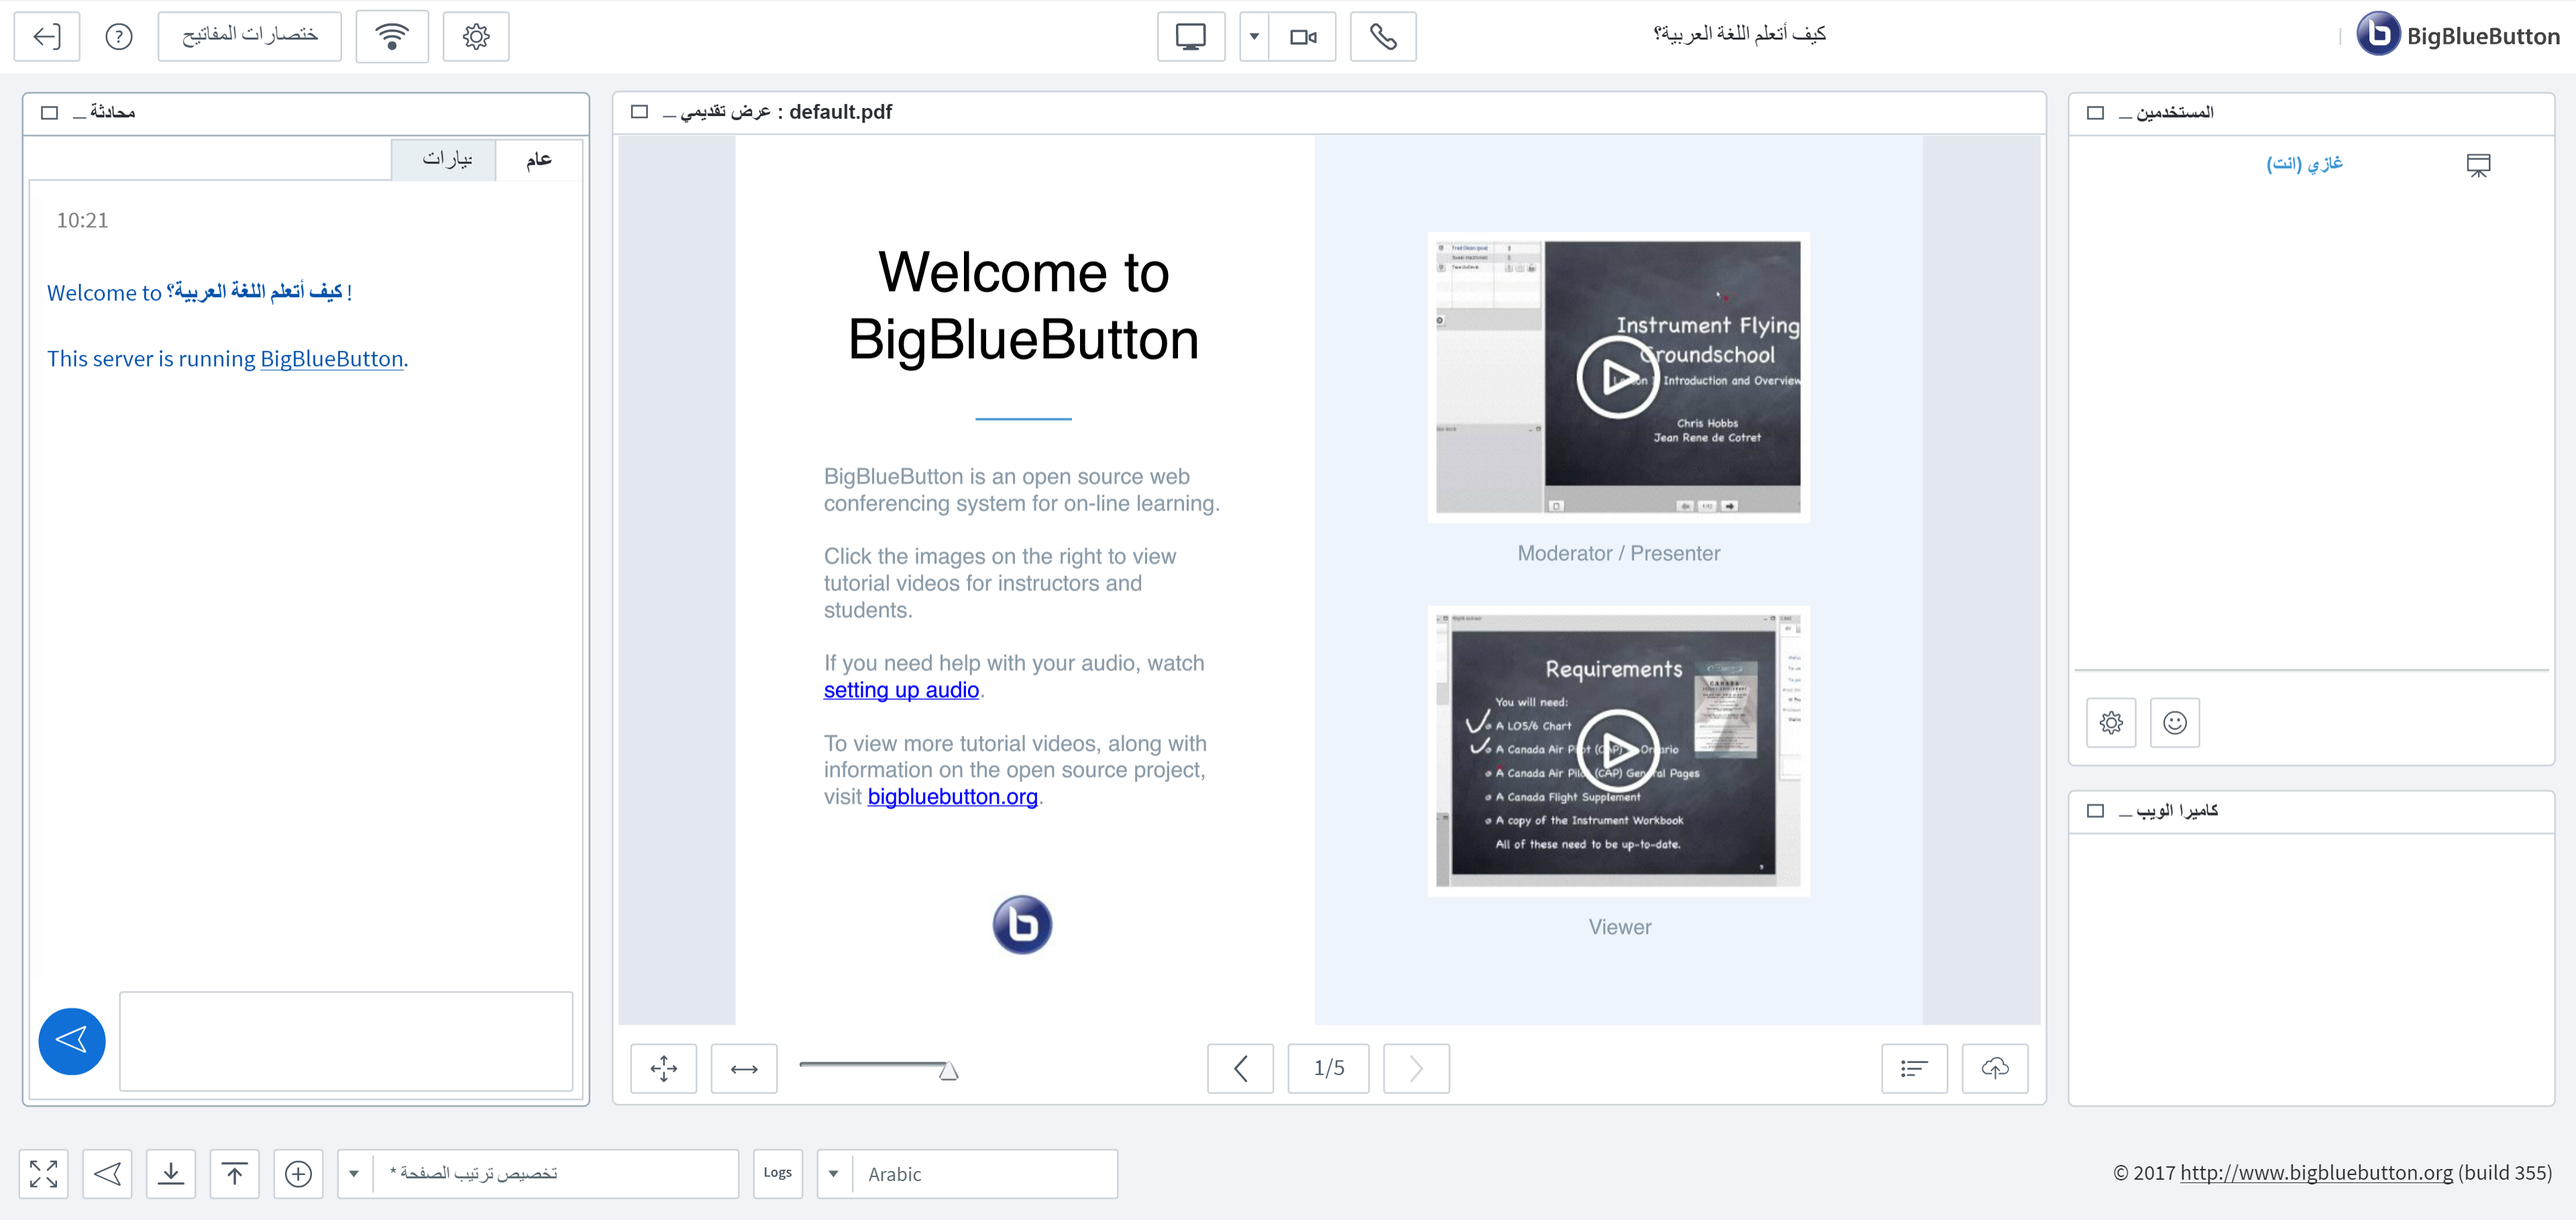
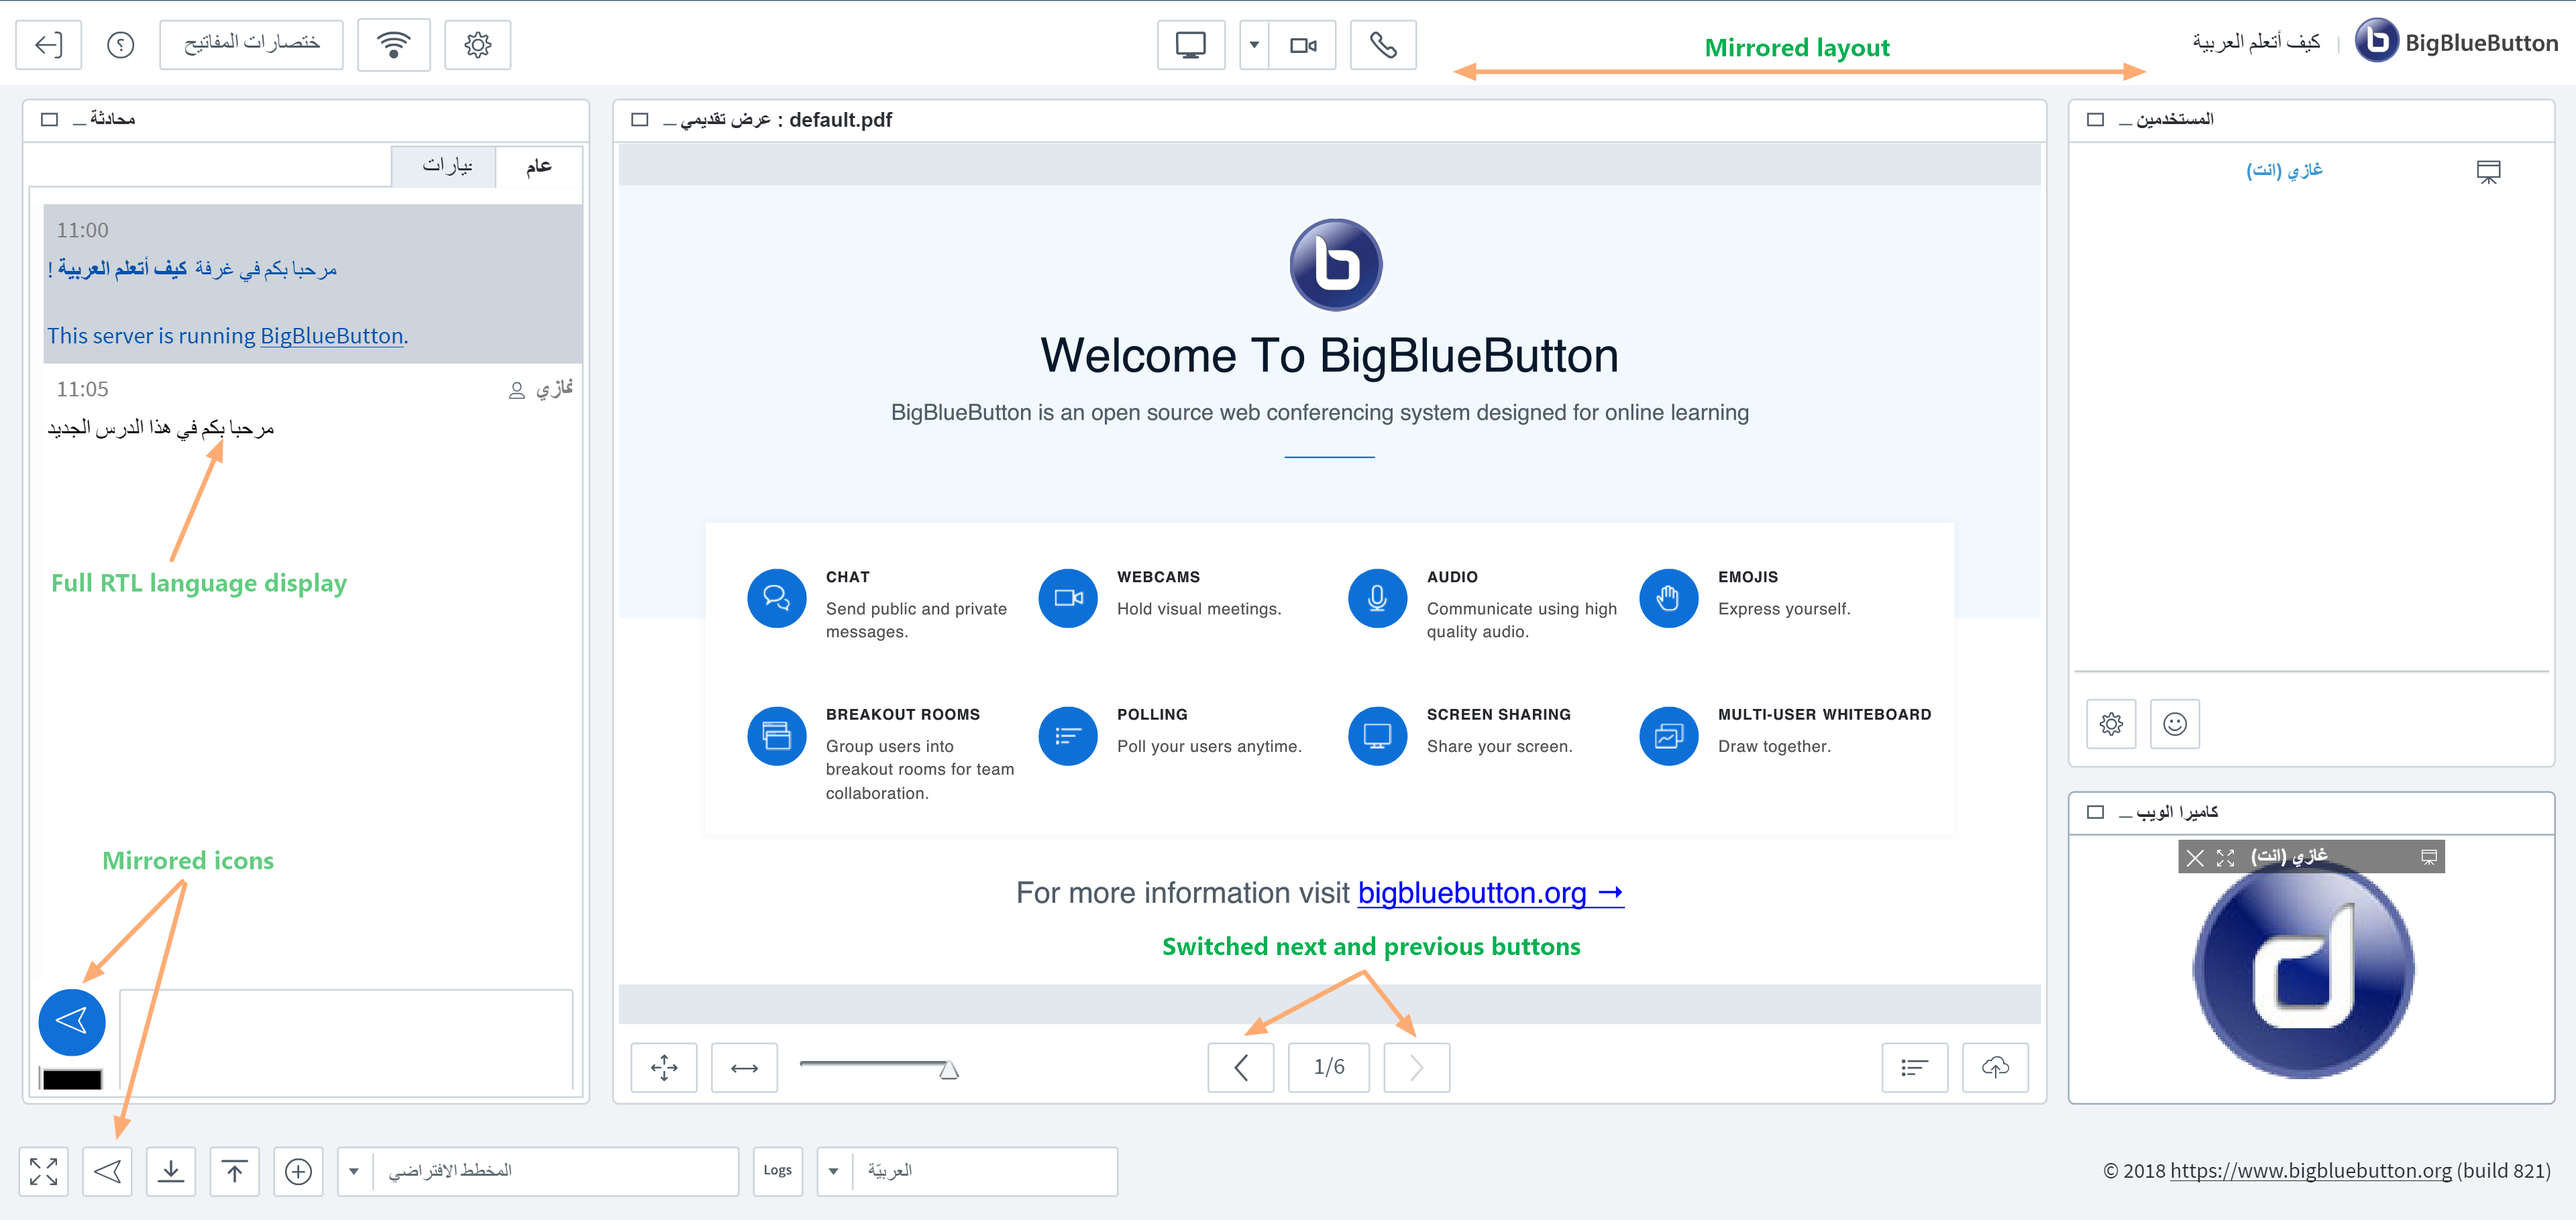
Updated RTL documentation.

diff --git a/_posts/2018-08-22-rtl.md b/_posts/2018-08-22-rtl.md
@@ -7,4 +7,27 @@ date: 2018-08-06 10:40:30
 
 # Overview
 
-The BigBlueButton client support right-to-left languages such as Arabic.
+Users that are familiar to languages written from right to left like Arabic, Persian and Hebrew are now able to use BigBlueButton in their mother tongue. It is possible to write in those languages without any additional configuration, and additionally the layout can be mirrored from right to left.
+
+![rtl-support](/images/20-rtl-screen.png)
+
+# Available Features
+
+The following features are available for RTL languages:
+
+- Write in text inputs and text area.
+- Display the application layout from right to left.
+- Mirrored icons, like logout icon and send chat message icon.
+
+# Configuration
+
+While right to left languages are supported without the need to mirror the layout, however setting layout direction from right to left needs changing `config.xml`. For that you just have to set `rtlEnabled` to `true` in the `language` XML tag.
+
+```
+<language rtlEnabled="true" />
+```
+
+# Known Limitations
+
+- Whiteboard text tool not usable.
+- Some labels are truncated.
